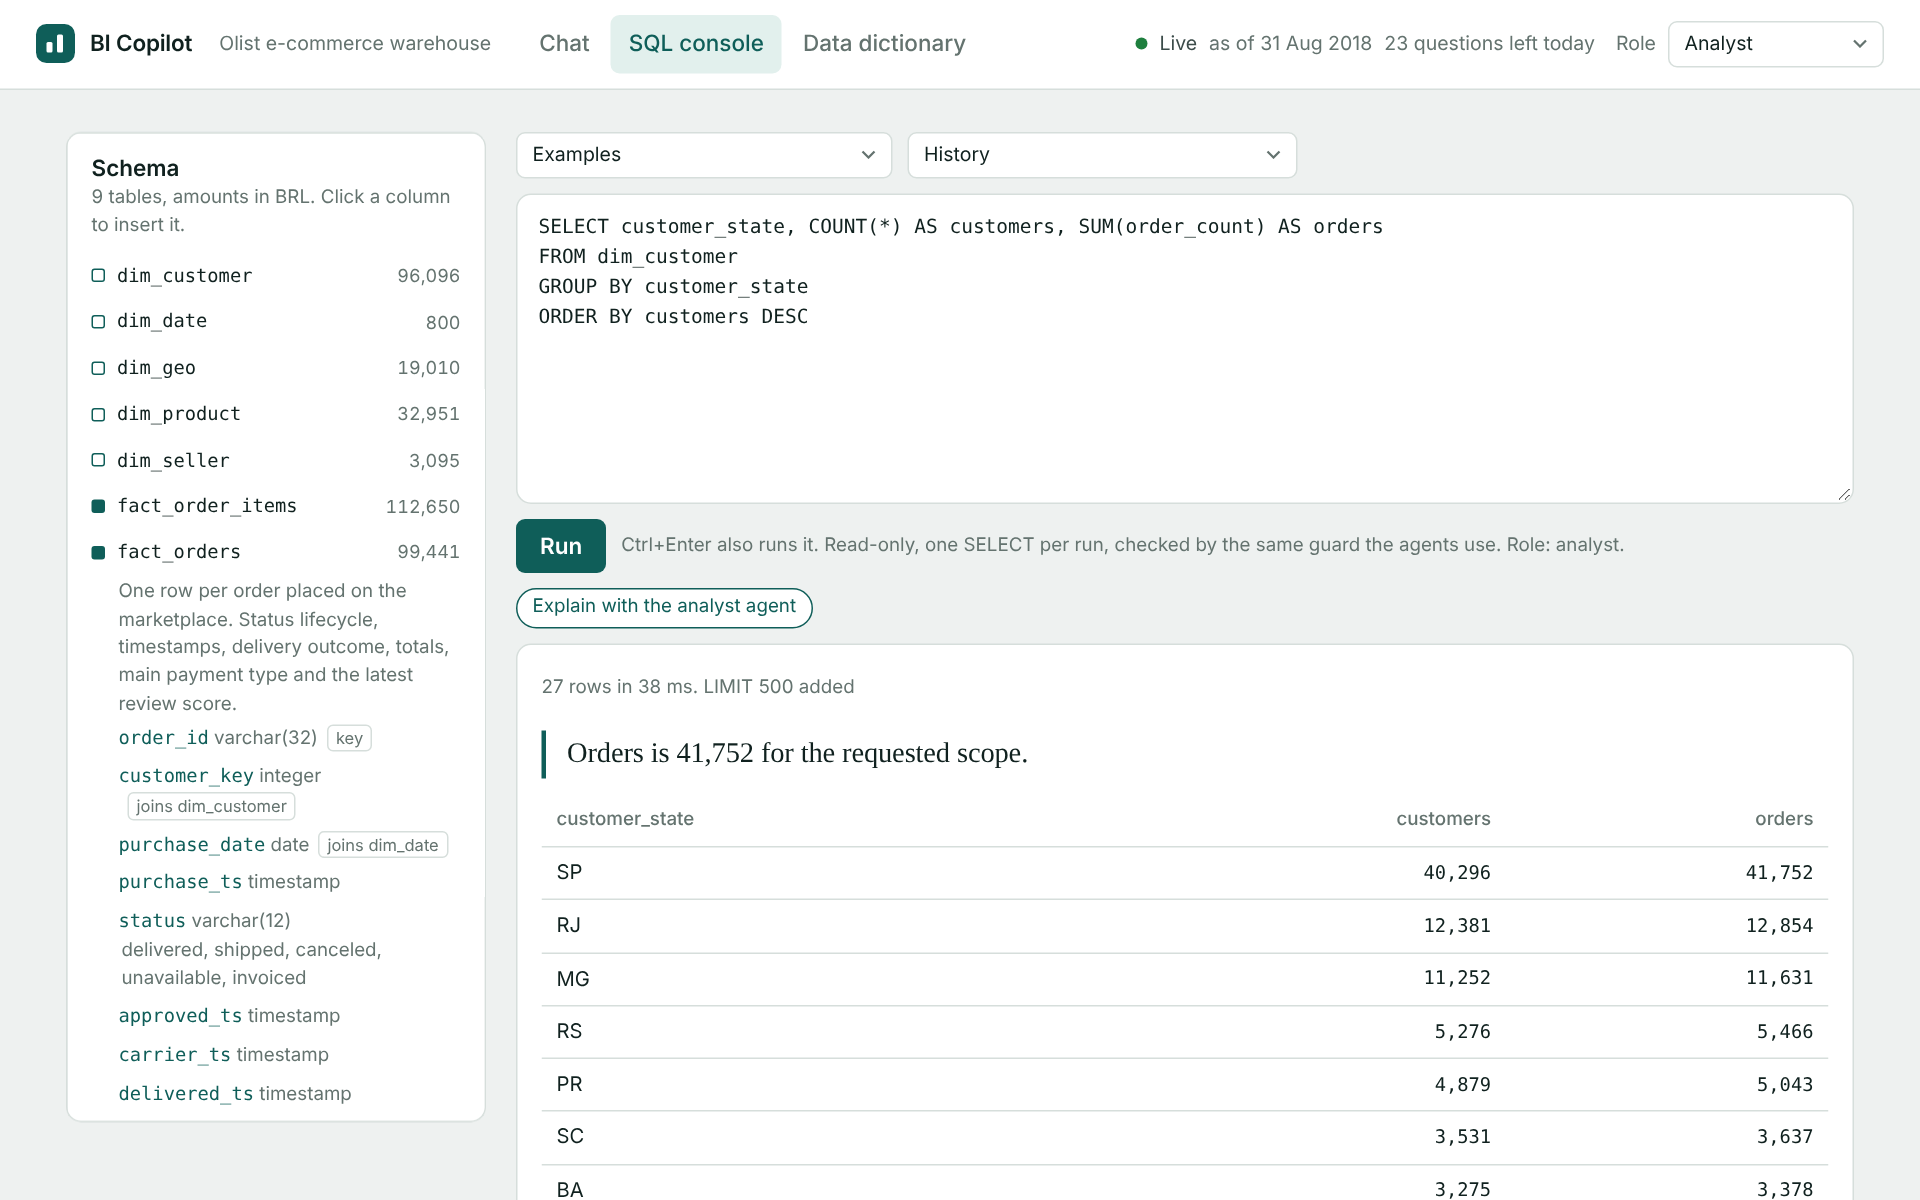
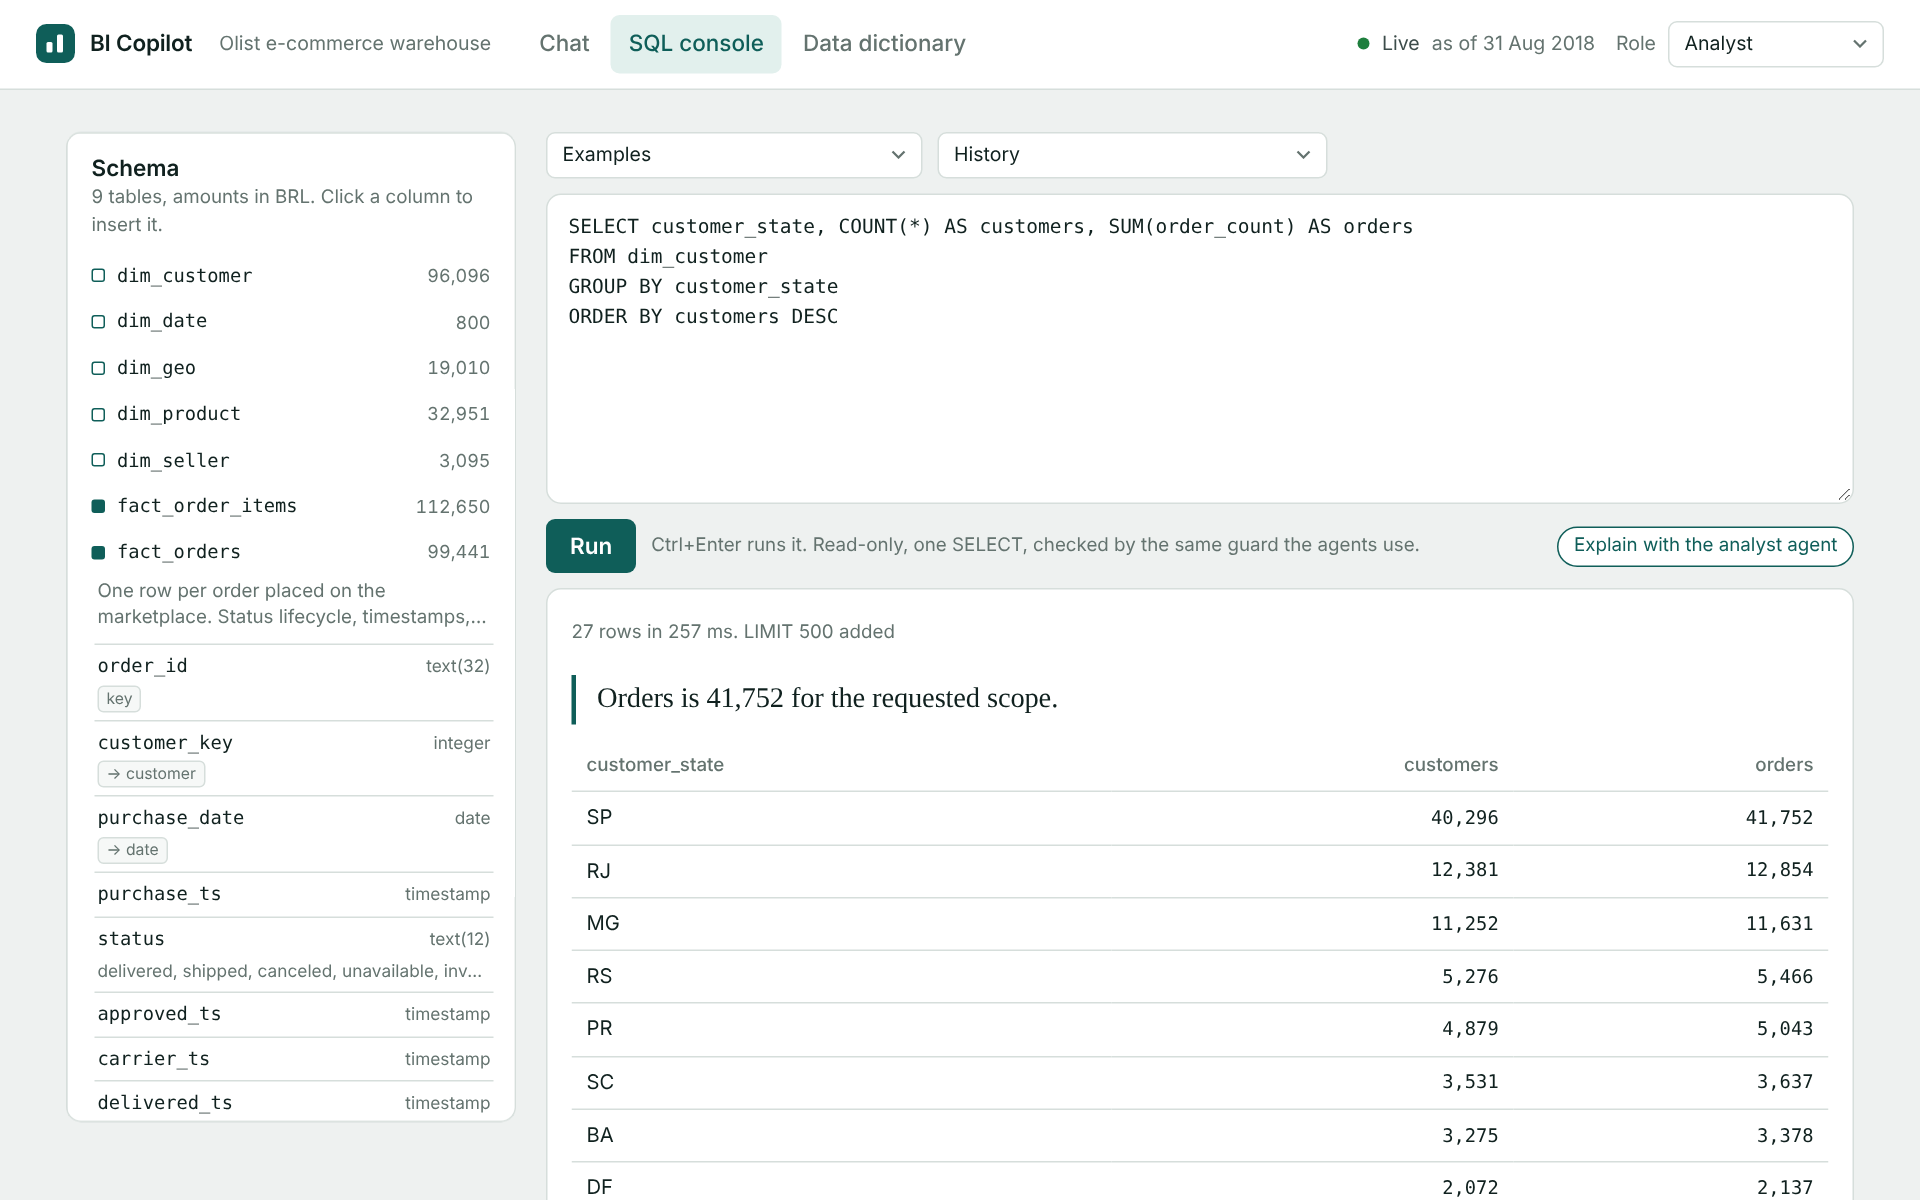
Dictionary: a join map (star-schema diagram) and a data-quality view; console schema browser as an aligned column list
Claude-Session: https://claude.ai/code/session_015es2U52W9yzNdGMexDe6wG

diff --git a/web/src/styles.css b/web/src/styles.css
@@ -265,7 +265,7 @@ pre.observation { background: var(--raised); border: 1px solid var(--line); bord
 .catalog .values { color: var(--muted); font-size: 12.5px; }
 
 /* ---------- SQL console ---------- */
-.console { display: grid; grid-template-columns: 280px minmax(0, 1fr); gap: 20px; flex: 1; align-items: start; }
+.console { display: grid; grid-template-columns: 300px minmax(0, 1fr); gap: 20px; flex: 1; align-items: start; }
 .schema { background: var(--surface); border: 1px solid var(--line); border-radius: var(--radius); padding: 12px 10px; max-height: calc(100vh - 140px); overflow: auto; position: sticky; top: 76px; }
 .schema-head { display: flex; flex-direction: column; margin: 0 6px 8px; }
 .schema-head strong { font-weight: 600; }
@@ -273,9 +273,19 @@ pre.observation { background: var(--raised); border: 1px solid var(--line); bord
 .schema-toggle:hover { background: var(--raised); }
 .schema-toggle code { background: none; padding: 0; font-size: 12.5px; }
 .schema-toggle .n { margin-left: auto; color: var(--muted); font-size: 12px; font-variant-numeric: tabular-nums; }
-.schema-cols { padding: 2px 6px 8px 24px; }
-.schema-col { padding: 3px 0; font-size: 13px; }
-.schema-col .samples { margin-left: 2px; }
+.schema-cols { padding: 2px 4px 10px 8px; }
+.schema-desc { color: var(--muted); font-size: 12.5px; line-height: 1.4; margin: 0 0 8px 2px; display: -webkit-box; -webkit-line-clamp: 2; -webkit-box-orient: vertical; overflow: hidden; }
+.col-list { list-style: none; margin: 0; padding: 0; border-top: 1px solid var(--line); }
+.col-row { display: grid; grid-template-columns: minmax(0, 1fr) auto; grid-template-areas: "name type" "marks marks" "samples samples"; column-gap: 8px; padding: 5px 2px; border-bottom: 1px solid var(--line); align-items: baseline; }
+.col-name { grid-area: name; background: none; border: none; padding: 0; text-align: left; font-family: var(--mono); font-size: 12.5px; color: var(--ink); overflow: hidden; text-overflow: ellipsis; white-space: nowrap; }
+.col-name:hover { color: var(--primary); text-decoration: underline; }
+.col-type { grid-area: type; color: var(--muted); font-size: 11.5px; white-space: nowrap; }
+.col-marks { grid-area: marks; display: flex; gap: 4px; flex-wrap: wrap; }
+.col-marks:empty { display: none; }
+.mark { font-size: 10.5px; line-height: 16px; padding: 0 5px; border-radius: 4px; background: var(--raised); color: var(--muted); border: 1px solid var(--line); }
+.mark.warn { color: var(--warn); border-color: color-mix(in srgb, var(--warn) 50%, transparent); }
+.col-samples { grid-area: samples; color: var(--muted); font-size: 11.5px; white-space: nowrap; overflow: hidden; text-overflow: ellipsis; margin-top: 1px; }
+.col-marks + .col-samples, .col-type + .col-marks { margin-top: 3px; }
 .kind { display: inline-block; width: 9px; height: 9px; border-radius: 2px; flex: 0 0 auto; }
 .kind.fact { background: var(--primary); }
 .kind.dimension { border: 1.5px solid var(--primary); }
@@ -313,6 +323,29 @@ button.primary:disabled { background: var(--line); color: var(--muted); }
 .dict-tab.active { background: var(--tint); color: var(--tint-ink); }
 .dict-tab code { background: none; padding: 0; font-size: 12.5px; }
 .dict-tab .n { margin-left: auto; color: var(--muted); font-size: 12px; font-variant-numeric: tabular-nums; }
+.dict-nav-group { color: var(--muted); font-size: 12.5px; padding: 14px 10px 4px; }
+.kind.map { background: linear-gradient(135deg, var(--primary) 50%, transparent 50%); border: 1.5px solid var(--primary); }
+.kind.quality { background: var(--warn); }
+.schema-map { width: 100%; height: auto; display: block; margin: 16px 0 8px; font-family: var(--sans); }
+.schema-map .node rect { fill: var(--surface); stroke: var(--line-strong); stroke-width: 1.2; }
+.schema-map .node.fact rect { fill: var(--tint); stroke: var(--primary); }
+.schema-map .node:hover rect, .schema-map .node:focus-visible rect { stroke: var(--primary); stroke-width: 1.8; }
+.schema-map .node:focus-visible { outline: none; }
+.schema-map .name { font-family: var(--mono); font-size: 11px; fill: var(--ink); font-weight: 500; }
+.schema-map .rows { font-size: 10.5px; fill: var(--muted); }
+.schema-map .join line { stroke: var(--line-strong); stroke-width: 1.4; }
+.schema-map .join:hover line { stroke: var(--primary); stroke-width: 2; }
+.schema-map .one { fill: var(--surface); stroke: var(--line-strong); stroke-width: 1.4; }
+.schema-map .join:hover .one { stroke: var(--primary); }
+.schema-map .key { font-family: var(--mono); font-size: 10px; fill: var(--muted); paint-order: stroke; stroke: var(--surface); stroke-width: 4px; stroke-linejoin: round; }
+.schema-map .join:hover .key { fill: var(--primary); }
+.schema-map .legend text { font-size: 11px; fill: var(--muted); }
+.schema-map .fact-swatch { fill: var(--tint); stroke: var(--primary); }
+.schema-map .dim-swatch { fill: var(--surface); stroke: var(--line-strong); }
+table.joins { margin-top: 12px; font-size: 13px; }
+table.joins td, table.joins th { white-space: normal; overflow-wrap: anywhere; }
+table.joins code { background: none; padding: 0; font-size: 12.5px; }
+ol.quality { margin: 12px 0 0; padding-left: 22px; color: var(--ink-2); display: flex; flex-direction: column; gap: 8px; font-size: 14px; }
 .dict-notes { margin-top: 18px; padding: 0 10px; font-size: 13px; }
 .dict-notes h3 { font-size: 13px; font-weight: 500; color: var(--muted); margin: 12px 0 4px; }
 .dict-notes ul { padding-left: 16px; margin: 0; color: var(--ink-2); }

diff --git a/web/src/components/DictionaryView.tsx b/web/src/components/DictionaryView.tsx
@@ -1,12 +1,14 @@
 import { useMemo, useState } from "react";
 import type { DictColumn, Dictionary } from "../api";
 import { fmt } from "./ResultView";
+import { parseJoins, SchemaMap } from "./SchemaMap";
 
 export function DictionaryView({ dictionary, onUseInConsole }: { dictionary: Dictionary | null; onUseInConsole: (sql: string) => void }) {
   const [q, setQ] = useState("");
-  const [table, setTable] = useState<string>("");
+  const [table, setTable] = useState<string>("map");
   const tables = dictionary?.tables ?? [];
-  const current = tables.find((t) => t.name === table) ?? tables[0];
+  const current = tables.find((t) => t.name === table);
+  const joins = useMemo(() => parseJoins(dictionary?.relationships ?? []), [dictionary]);
 
   const matches = useMemo(() => {
     const needle = q.trim().toLowerCase();
@@ -52,30 +54,71 @@ export function DictionaryView({ dictionary, onUseInConsole }: { dictionary: Dic
         </div>
       ) : (
         <div className="dict-body">
-          <nav className="dict-nav" aria-label="Tables">
+          <nav className="dict-nav" aria-label="Dictionary sections">
+            <button type="button" className={`dict-tab ${table === "map" ? "active" : ""}`} onClick={() => setTable("map")}>
+              <span className="kind map" aria-hidden="true" /> How the tables join
+            </button>
+            <button type="button" className={`dict-tab ${table === "quality" ? "active" : ""}`} onClick={() => setTable("quality")}>
+              <span className="kind quality" aria-hidden="true" /> Known data-quality issues
+            </button>
+            <div className="dict-nav-group">Tables</div>
             {tables.map((t) => (
               <button key={t.name} type="button" className={`dict-tab ${current?.name === t.name ? "active" : ""}`} onClick={() => setTable(t.name)}>
                 <span className={`kind ${t.kind}`} aria-hidden="true" /> <code>{t.name}</code>
                 <span className="n">{t.row_count.toLocaleString()}</span>
               </button>
             ))}
-            <div className="dict-notes">
-              <h3>How the tables join</h3>
-              <ul>
-                {dictionary.relationships.map((r, i) => (
-                  <li key={i}>
-                    <code>{r}</code>
-                  </li>
-                ))}
-              </ul>
-              <h3>Known data-quality issues</h3>
-              <ul>
+          </nav>
+
+          {table === "map" && (
+            <div className="dict-table">
+              <h2>How the tables join</h2>
+              <p className="desc">
+                A star schema: the two fact tables hold what happened (orders, and the lines inside them); the dimensions describe who,
+                what and when. Payments and reviews hang off the order. Click a table to open it.
+              </p>
+              <SchemaMap tables={tables} joins={joins} onSelect={setTable} />
+              <table className="joins">
+                <thead>
+                  <tr>
+                    <th>From</th>
+                    <th>To</th>
+                    <th>Cardinality</th>
+                  </tr>
+                </thead>
+                <tbody>
+                  {joins.map((j, i) => (
+                    <tr key={i}>
+                      <td>
+                        <code>
+                          {j.from}.{j.fromCol}
+                        </code>
+                      </td>
+                      <td>
+                        <code>
+                          {j.to}.{j.toCol}
+                        </code>
+                      </td>
+                      <td className="muted">{j.note || "many to one"}</td>
+                    </tr>
+                  ))}
+                </tbody>
+              </table>
+            </div>
+          )}
+
+          {table === "quality" && (
+            <div className="dict-table">
+              <h2>Known data-quality issues</h2>
+              <p className="desc">What the loader found in the source files and how the warehouse handles it. The agents' answers already account for these.</p>
+              <ol className="quality">
                 {dictionary.quality_notes.map((n, i) => (
                   <li key={i}>{n}</li>
                 ))}
-              </ul>
+              </ol>
             </div>
-          </nav>
+          )}
+
           {current && (
             <div className="dict-table">
               <h2>
@@ -93,6 +136,11 @@ export function DictionaryView({ dictionary, onUseInConsole }: { dictionary: Dic
                 <button type="button" className="chip" onClick={() => onUseInConsole(`SELECT *\nFROM ${current.name}\nLIMIT 20`)}>
                   Preview in the SQL console
                 </button>
+                {joins.some((j) => j.from === current.name || j.to === current.name) && (
+                  <span className="muted small">
+                    Joins {Array.from(new Set(joins.filter((j) => j.from === current.name || j.to === current.name).map((j) => (j.from === current.name ? j.to : j.from)))).join(", ")}
+                  </span>
+                )}
               </div>
               <div className="dict-cols">
                 {current.columns.map((c) => (

diff --git a/web/src/components/SchemaMap.tsx b/web/src/components/SchemaMap.tsx
@@ -1,0 +1,98 @@
+import type { DictTable } from "../api";
+
+/** One join, parsed from the dictionary's "a.col -> b.col (note)" lines. */
+export type Join = { from: string; fromCol: string; to: string; toCol: string; note: string };
+
+export function parseJoins(relationships: string[]): Join[] {
+  const out: Join[] = [];
+  for (const r of relationships) {
+    const m = r.match(/^\s*(\w+)\.(\w+)\s*(?:->|→)\s*(\w+)\.(\w+)\s*(?:\((.*)\))?\s*$/);
+    if (m) out.push({ from: m[1], fromCol: m[2], to: m[3], toCol: m[4], note: m[5] ?? "" });
+  }
+  return out;
+}
+
+const W = 120;
+const H = 40;
+// Hand-placed star layout for the Olist warehouse: dimensions in a column, facts beside them, satellite
+// facts to the right. Tables the layout does not know about go in a row underneath.
+const LAYOUT: Record<string, [number, number]> = {
+  dim_geo: [12, 24],
+  dim_customer: [196, 24],
+  dim_date: [196, 100],
+  dim_product: [196, 176],
+  dim_seller: [196, 252],
+  fact_orders: [404, 62],
+  fact_order_items: [404, 214],
+  fact_payments: [600, 24],
+  fact_reviews: [600, 100],
+};
+
+type Box = { name: string; x: number; y: number; kind: "fact" | "dimension"; rows: number };
+
+function anchors(a: Box, b: Box): [number, number, number, number] {
+  // Join lines leave a box through the side that faces the other box, so they stay in the gutters.
+  const acx = a.x + W / 2, acy = a.y + H / 2, bcx = b.x + W / 2, bcy = b.y + H / 2;
+  if (Math.abs(acx - bcx) < W) {
+    // stacked vertically
+    return acy < bcy ? [acx, a.y + H, bcx, b.y] : [acx, a.y, bcx, b.y + H];
+  }
+  return acx < bcx ? [a.x + W, acy, b.x, bcy] : [a.x, acy, b.x + W, bcy];
+}
+
+export function SchemaMap({ tables, joins, onSelect }: { tables: DictTable[]; joins: Join[]; onSelect?: (table: string) => void }) {
+  const boxes: Record<string, Box> = {};
+  let extraX = 12;
+  const extraY = 318;
+  for (const t of tables) {
+    const pos = LAYOUT[t.name];
+    if (pos) boxes[t.name] = { name: t.name, x: pos[0], y: pos[1], kind: t.kind, rows: t.row_count };
+    else {
+      boxes[t.name] = { name: t.name, x: extraX, y: extraY, kind: t.kind, rows: t.row_count };
+      extraX += W + 20;
+    }
+  }
+  const height = extraX > 12 ? extraY + H + 16 : 330;
+  const width = 740;
+
+  return (
+    <svg className="schema-map" viewBox={`0 0 ${width} ${height}`} role="img" aria-label="How the tables join: facts and the dimensions they reference">
+      <title>How the tables join</title>
+      {joins.map((j, i) => {
+        const a = boxes[j.from], b = boxes[j.to];
+        if (!a || !b) return null;
+        const [x1, y1, x2, y2] = anchors(a, b);
+        const mx = (x1 + x2) / 2, my = (y1 + y2) / 2;
+        return (
+          <g key={i} className="join">
+            <title>{`${j.from}.${j.fromCol} joins ${j.to}.${j.toCol}${j.note ? ` (${j.note})` : ""}`}</title>
+            <line x1={x1} y1={y1} x2={x2} y2={y2} />
+            <circle cx={x2} cy={y2} r={3} className="one" />
+            <text x={mx} y={my - 5} textAnchor="middle" className="key">
+              {j.fromCol}
+            </text>
+          </g>
+        );
+      })}
+      {Object.values(boxes).map((b) => (
+        <g key={b.name} className={`node ${b.kind}`} transform={`translate(${b.x} ${b.y})`} onClick={() => onSelect?.(b.name)} style={{ cursor: onSelect ? "pointer" : "default" }} tabIndex={onSelect ? 0 : -1} role={onSelect ? "button" : undefined} aria-label={`${b.name}, ${b.rows.toLocaleString()} rows`} onKeyDown={(e) => { if (e.key === "Enter" || e.key === " ") onSelect?.(b.name); }}>
+          <rect width={W} height={H} rx={7} />
+          <text x={10} y={17} className="name">
+            {b.name}
+          </text>
+          <text x={10} y={31} className="rows">
+            {b.rows.toLocaleString()} rows
+          </text>
+        </g>
+      ))}
+      <g className="legend" transform={`translate(12 ${height - 10})`}>
+        <rect width={10} height={10} y={-9} rx={2} className="fact-swatch" />
+        <text x={16} y={0}>fact table</text>
+        <rect x={84} width={10} height={10} y={-9} rx={2} className="dim-swatch" />
+        <text x={100} y={0}>dimension</text>
+        <circle cx={176} cy={-4} r={3} className="one" />
+        <text x={184} y={0}>the “one” side of the join</text>
+      </g>
+    </svg>
+  );
+}

diff --git a/web/src/components/SqlConsole.tsx b/web/src/components/SqlConsole.tsx
@@ -124,21 +124,29 @@ export function SqlConsole({
             </button>
             {open === t.name && (
               <div className="schema-cols">
-                <p className="small muted">{t.description}</p>
-                {t.columns.map((c) => (
-                  <div key={c.name} className="schema-col" title={c.description}>
-                    <button type="button" className="link mono" onClick={() => insert(`${t.name}.${c.name}`)}>
-                      {c.name}
-                    </button>
-                    <span className="muted small"> {c.type.toLowerCase()}</span>
-                    {c.primary_key && <span className="tag">key</span>}
-                    {c.joins_to && <span className="tag">joins {c.joins_to.split(".")[0]}</span>}
-                    {c.masked_for_viewer && <span className="tag warn">masked</span>}
-                    {c.samples.length > 0 && c.samples[0].count !== null && (
-                      <div className="samples small muted">{c.samples.slice(0, 5).map((s) => s.value).join(", ")}</div>
-                    )}
-                  </div>
-                ))}
+                <p className="schema-desc" title={t.description}>
+                  {t.description}
+                </p>
+                <ul className="col-list">
+                  {t.columns.map((c) => (
+                    <li key={c.name} className="col-row" title={c.description}>
+                      <button type="button" className="col-name" onClick={() => insert(`${t.name}.${c.name}`)}>
+                        {c.name}
+                      </button>
+                      <span className="col-type">{c.type.toLowerCase().replace("varchar", "text")}</span>
+                      <span className="col-marks">
+                        {c.primary_key && <span className="mark" title="primary key">key</span>}
+                        {c.joins_to && <span className="mark" title={`joins ${c.joins_to}`}>→ {c.joins_to.split(".")[0].replace(/^(dim|fact)_/, "")}</span>}
+                        {c.masked_for_viewer && <span className="mark warn" title="masked for the viewer role">masked</span>}
+                      </span>
+                      {c.samples.length > 0 && c.samples[0].count !== null && (
+                        <span className="col-samples" title={c.samples.map((s) => s.value).join(", ")}>
+                          {c.samples.slice(0, 6).map((s) => s.value).join(", ")}
+                        </span>
+                      )}
+                    </li>
+                  ))}
+                </ul>
               </div>
             )}
           </div>
